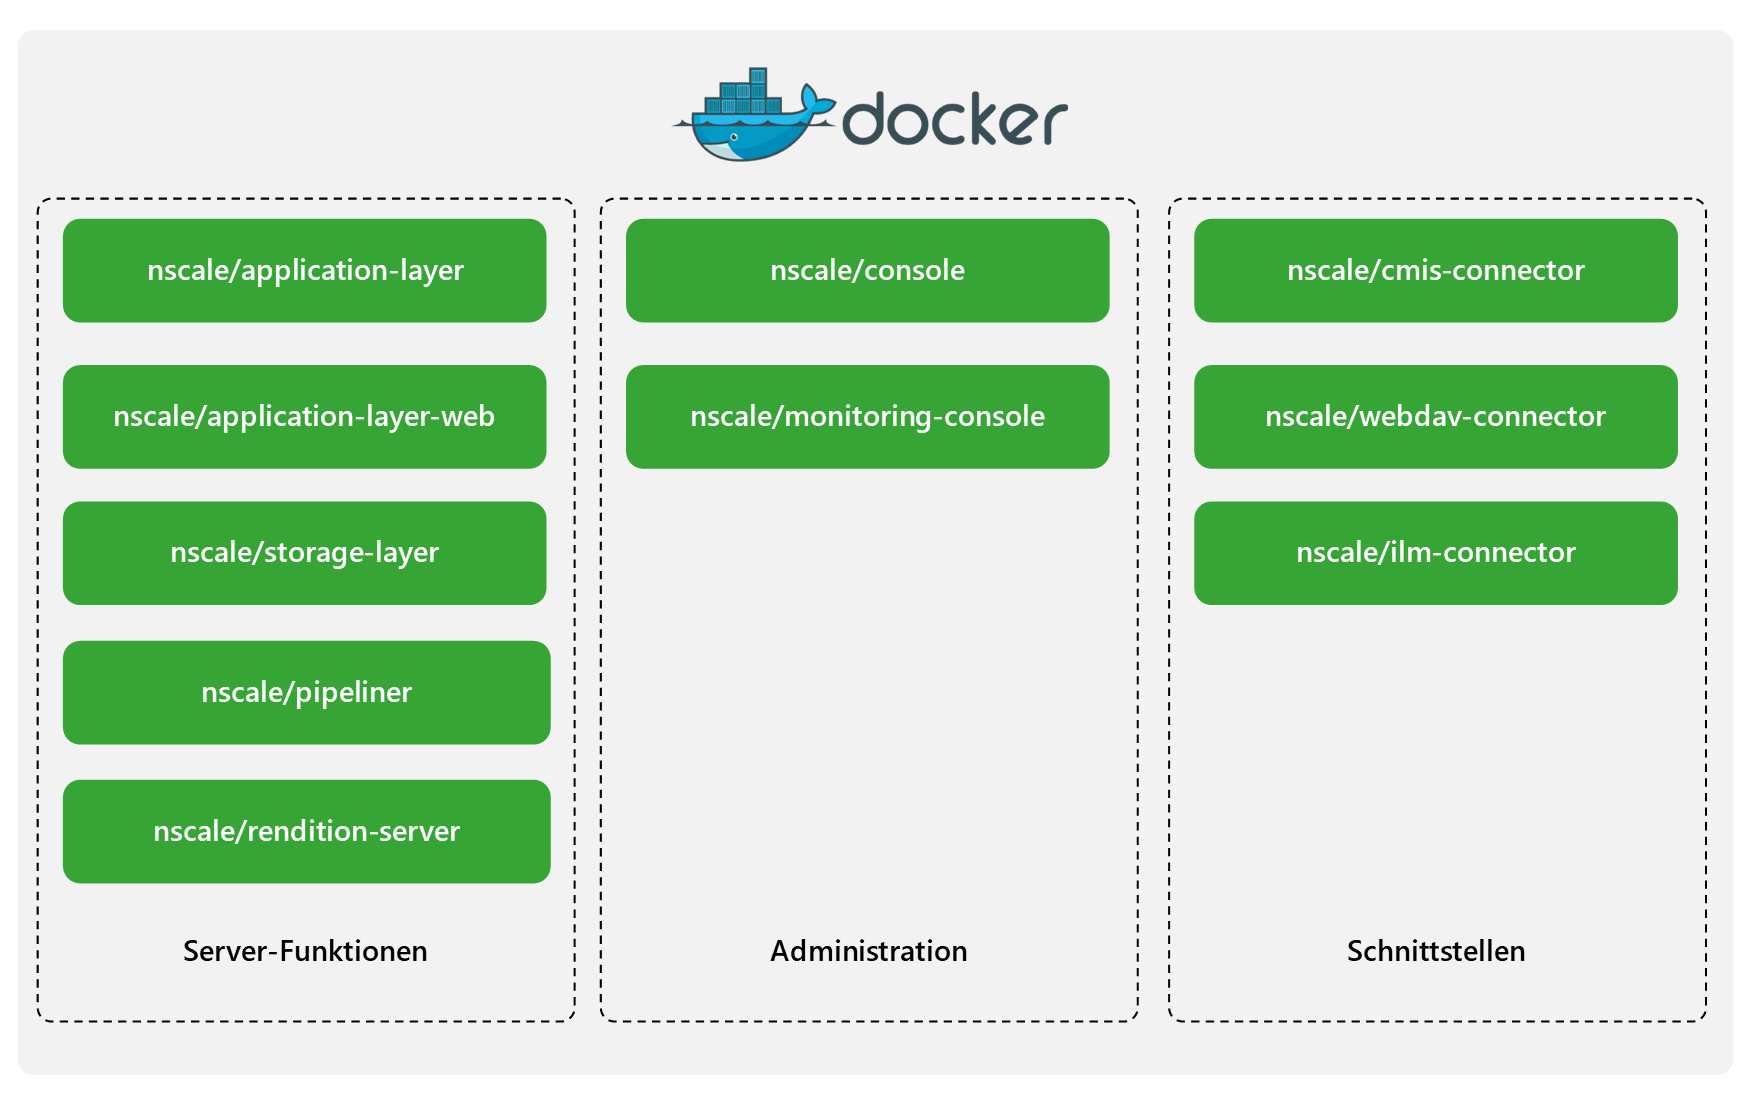
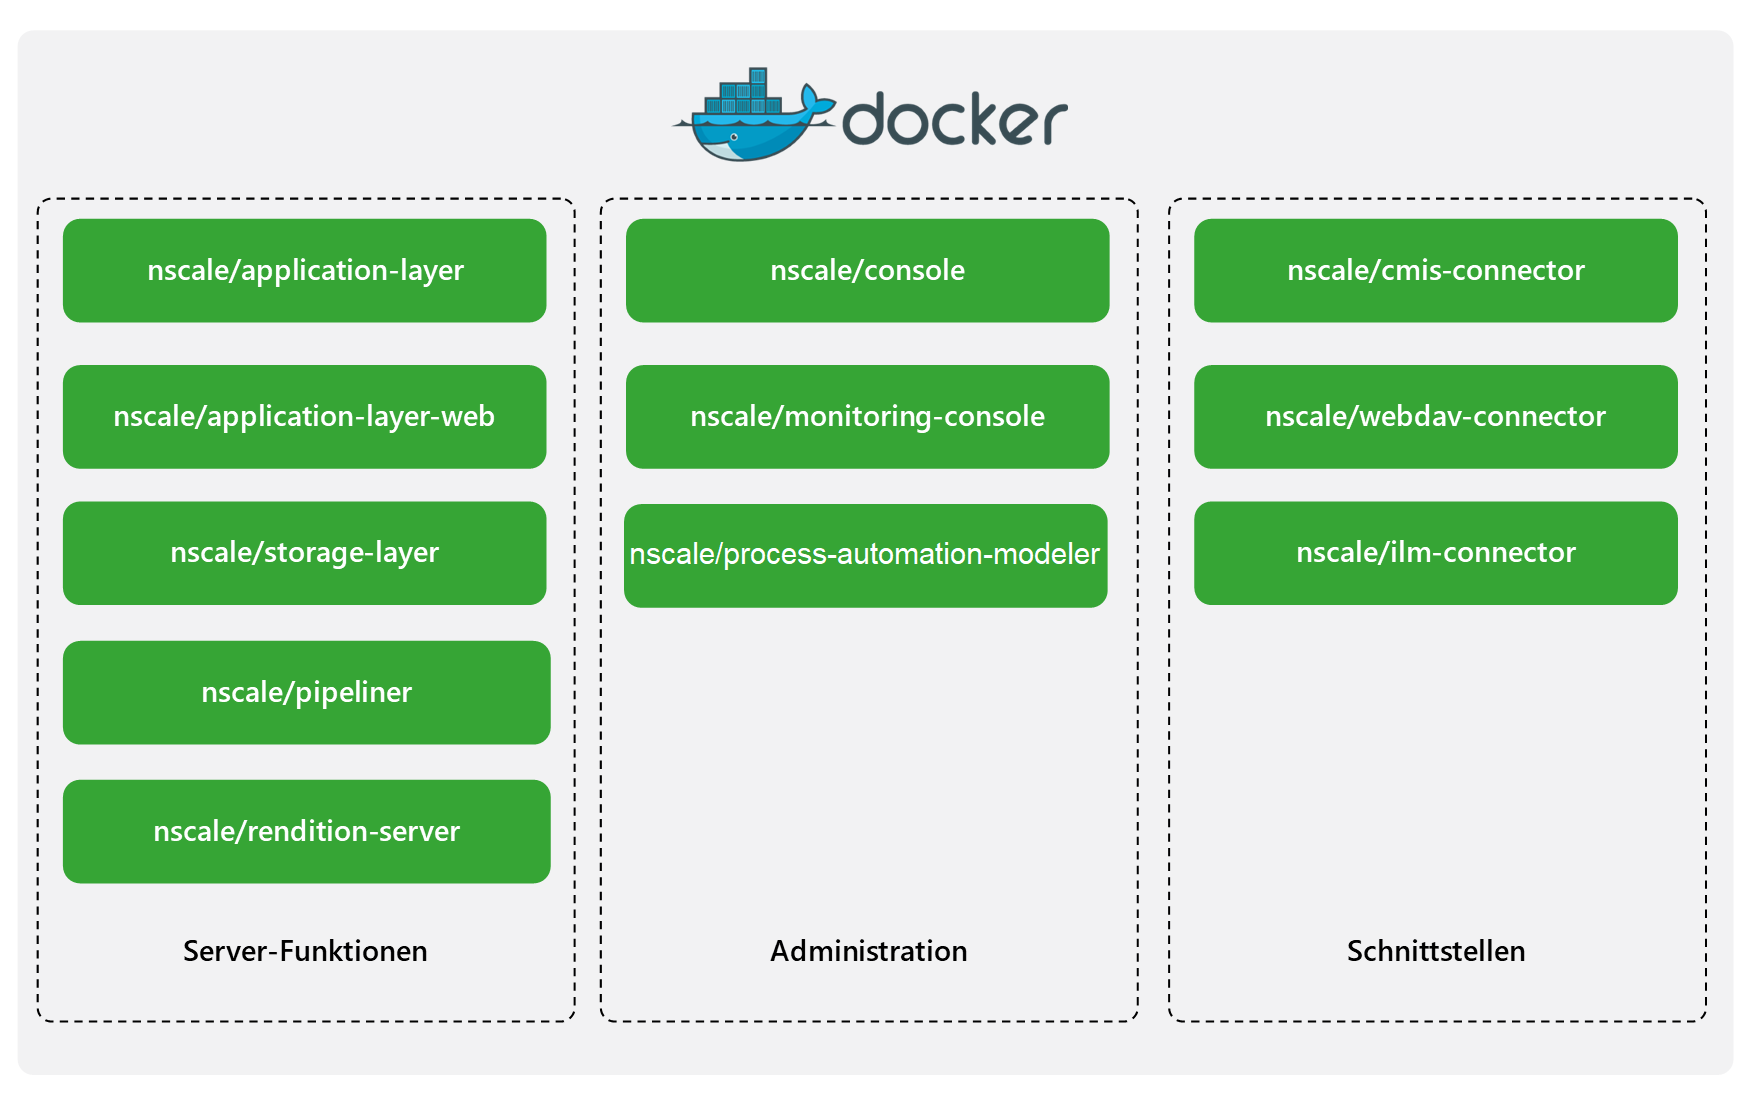
update

Changed region(s): [[0.3387, 0.4284, 0.6465, 0.5509]]

diff --git a/docs/de/index.md b/docs/de/index.md
@@ -1,6 +1,6 @@
 # nscale Standard Container
 
-![Ceyoniq Logo](../images/nscale8.png)
+![Ceyoniq Logo](../images/nscale9.png)
 
 nscale ist eine Informationsplattform und vereint sämtliche Vorteile eines Enterprise Information Management Systems. Der Nutzen von nscale ist vielfältig. Er beginnt bei einer einfachen und stabilen Dokumentenarchivierung und endet noch lange nicht beim Aufbau einer unternehmensweiten Informationsplattform zur Organisation von Daten und Inhalten. Denn ein Dokument ist oft wesentlich mehr als nur eine Datei. nscale unterstützt Sie nicht nur bei der Strukturierung, Archivierung und rechtssicheren, gesetzeskonformen Ablage: nscale macht Ihre Informationen wertvoll. Darin liegt der große Unterschied zu anderen Systemen.
 
@@ -101,6 +101,7 @@ Folgende Komponenten stehen als nscale Standard Container zur Verfügung:
 |nscale Server Storage Layer|Ja|Ja|Nein|Nein|
 |nscale Rendition Server|Ja|Ja|Ja|Ja|
 |nscale Pipeliner|Ja|Nein|Nein|Nein|
+|nscale Process Automation Modeler|Ja|Ja|Nein|Nein|
 |nscale Console|Nein|Ja|Ja|Ja|
 |nscale Monitoring Console|Ja|Ja|Nein|Nein|
 |nscale CMIS-Connector|Ja|Ja|Ja|Ja|

diff --git a/README.md b/README.md
@@ -1,6 +1,6 @@
 # nscale Standard Container
 
-![Ceyoniq Logo](docs/images/nscale8.png)
+![Ceyoniq Logo](docs/images/nscale9.png)
 
 nscale ist eine Informationsplattform und vereint sämtliche Vorteile eines Enterprise Information Management Systems. Der Nutzen von nscale ist vielfältig. Er beginnt bei einer einfachen und stabilen Dokumentenarchivierung und endet noch lange nicht beim Aufbau einer unternehmensweiten Informationsplattform zur Organisation von Daten und Inhalten. Denn ein Dokument ist oft wesentlich mehr als nur eine Datei. nscale unterstützt Sie nicht nur bei der Strukturierung, Archivierung und rechtssicheren, gesetzeskonformen Ablage: nscale macht Ihre Informationen wertvoll. Darin liegt der große Unterschied zu anderen Systemen.
 

diff --git a/docs/de/compose.md b/docs/de/compose.md
@@ -125,6 +125,9 @@ Beachten Sie, dass der Rechner, auf dem Sie nscale installieren wollen, aus dem 
 **docker-compose.default-ports.yml**  
 Mit dieser Konfiguration werden alle nscale default Ports freigegeben. Diese Ports sind: 5432 (Postgres), 3005, 8080, 8443, 8090, 8091, 8086, 8087, 8387, 8388, 8192 und 8193.  
 
+**docker-compose.modeler.yml**  
+In dieser Konfiguration wird nscale Process Automation Modeler verwendet.
+
 **docker-compose.pipeliner.yml**  
 In dieser Konfiguration wird nscale Pipeliner verwendet.
 
